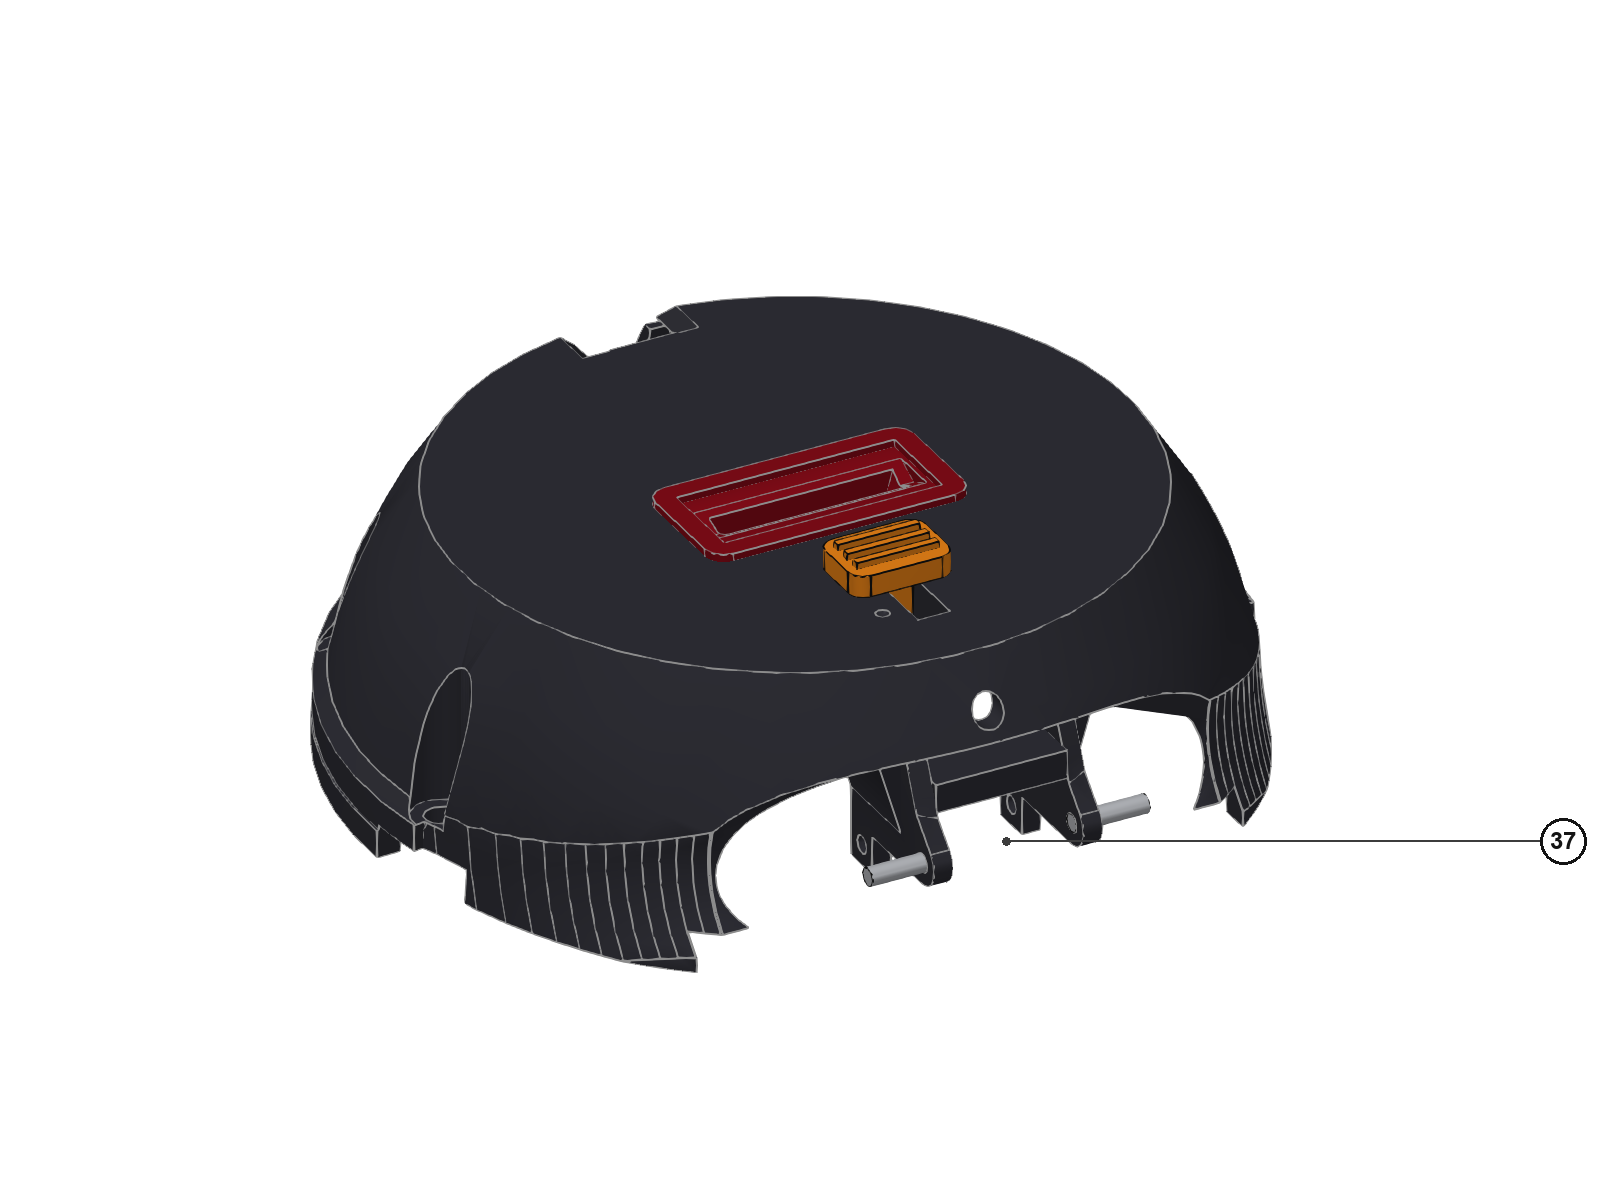
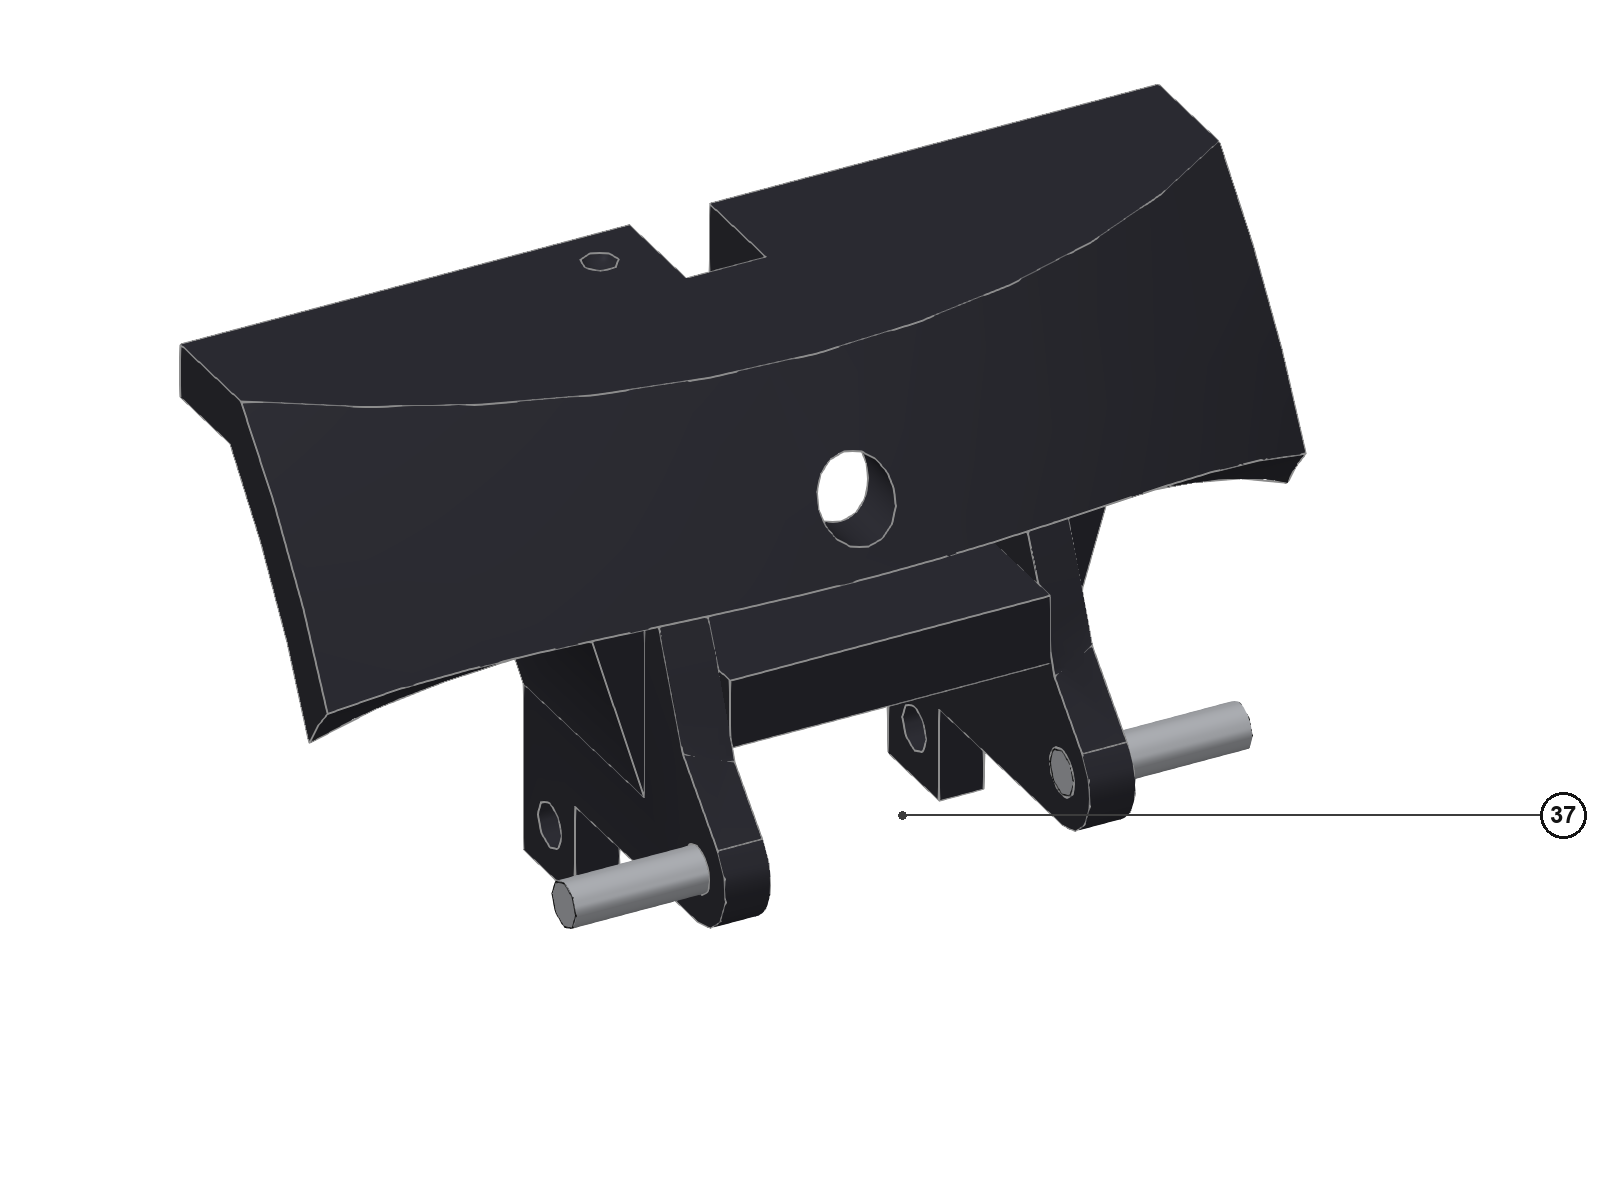
Manual, step 10: first picture is a close view of the hinge towers
The whole stage was too small to show that each waiting pin sits in a
closed eye at the end of its tower, and that the feet under the towers
have the holes for the pin under the spring leg. No part has changed.

Changed region(s): [[0.0938, 0.0617, 1.0, 0.8325], [0.4062, 0.3392, 0.625, 0.5242], [0.4375, 0.555, 0.4688, 0.5858]]

diff --git a/src/poketonieengagementhunt/manual_text.py b/src/poketonieengagementhunt/manual_text.py
@@ -194,7 +194,7 @@ STEPS = [
             f"One long pin cannot be used in this hinge: the wall of the lid closes the hinge axis at both ends. To take the lid off again, push the pin under the spring leg out sideways and cut through the coil of the spring and the sleeve inside it, between the ribs, with strong side cutters. The halves of the sleeve then come off the pins, and each pin can be pushed outwards with a small screwdriver until it has left the rib. Spring and sleeve are lost; fit new ones.",
         ],
         "views": [
-            {"file": "step_10a.png", "pose": "hinging", "show": STAGE, "new": ["hinge_pin"], "az": 152, "el": 30},
+            {"file": "step_10a.png", "pose": "hinging", "show": STAGE, "new": ["hinge_pin"], "keep": (-60, -24, -22, 22, -2, 30), "az": 152, "el": 30},
             {"file": "step_10b.png", "pose": "hinging", "show": STAGE + ["hinge_pin"], "new": ["lid", "sleeve", "spring"], "ghost": ["lid"], "lift": {"lid": (-30, 0, 0), "sleeve": (-30, 0, 0), "spring": (-30, 0, 0)}, "az": 152, "el": 30},
             {"file": "step_10c.png", "pose": "open", "show": ["stage", "lid", "hinge_pin", "sleeve", "spring"], "new": ["yoke_pin"], "ghost": ["lid"], "lift": {"yoke_pin": (0, 19, 0)}, "keep": (-58, -20, -34, 34, -6, 30), "az": 35, "el": -28, "zoom": 1.1},
         ],
